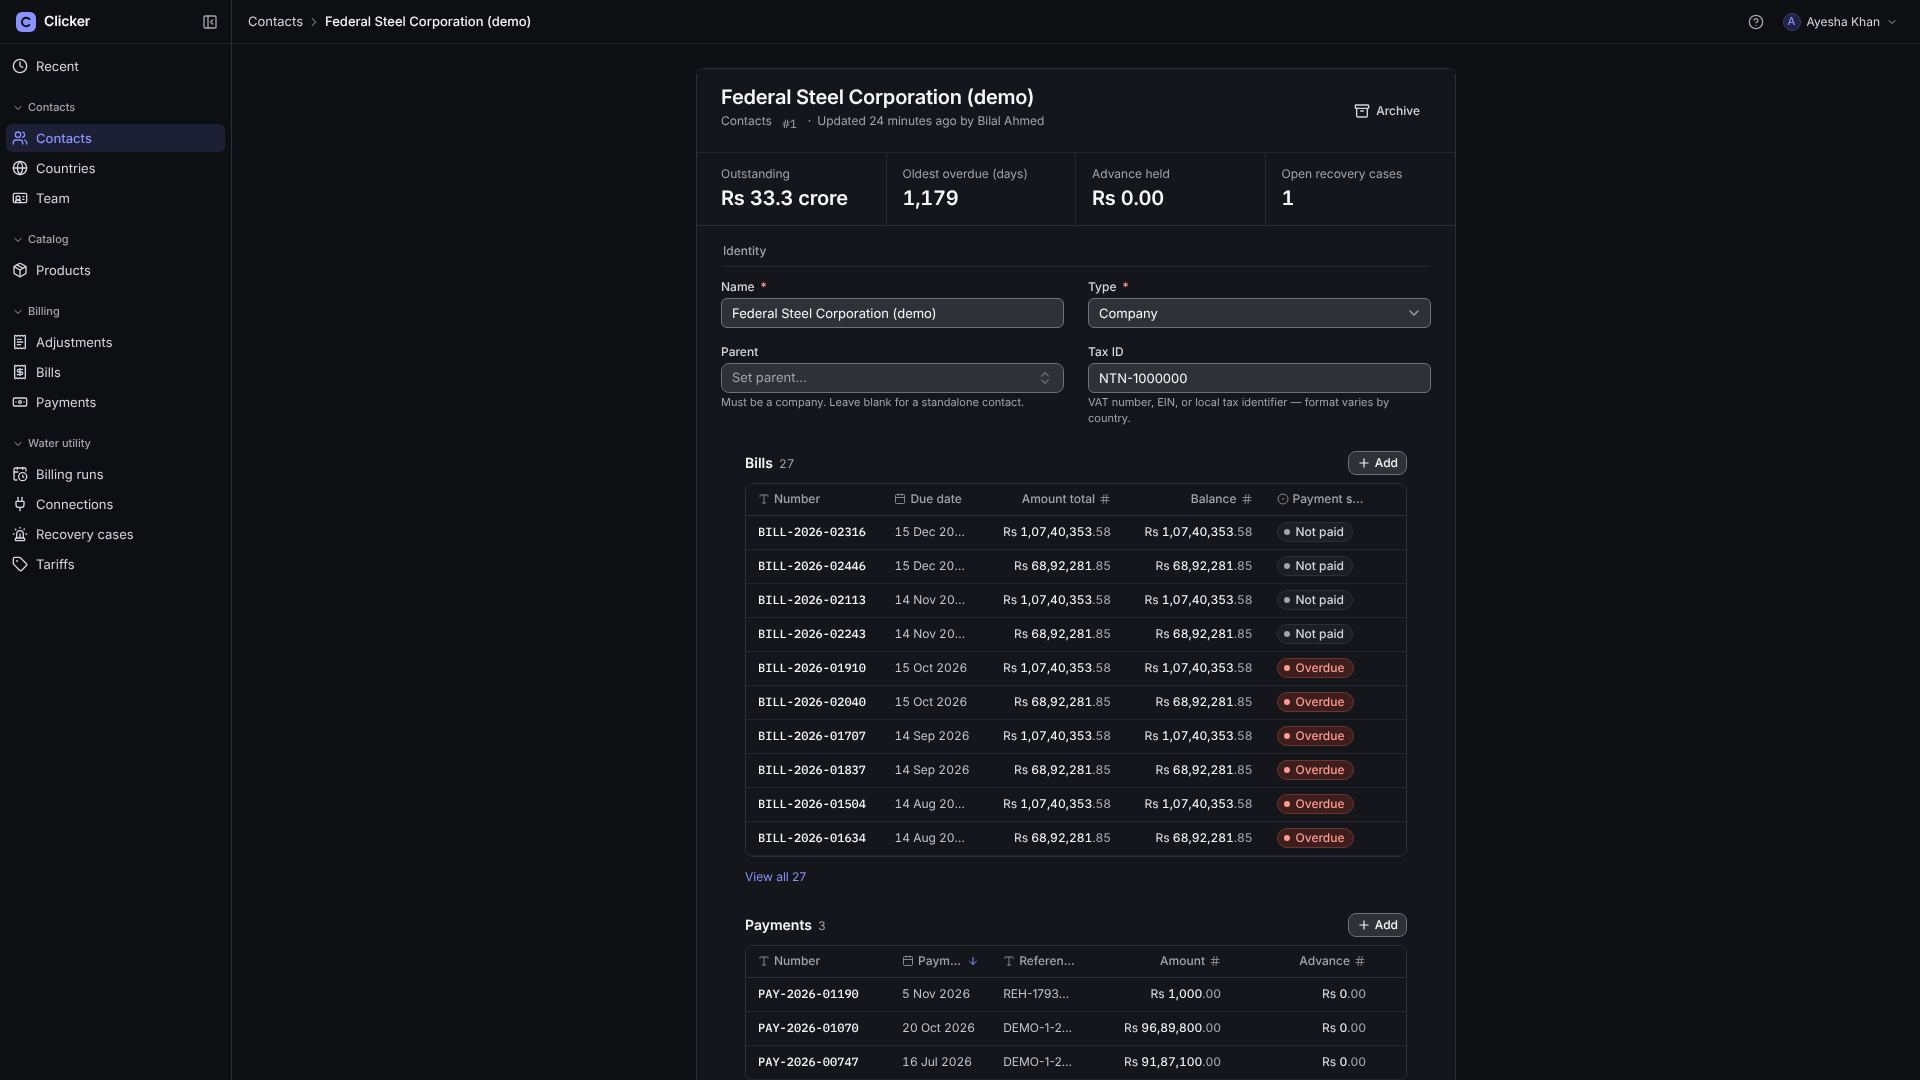
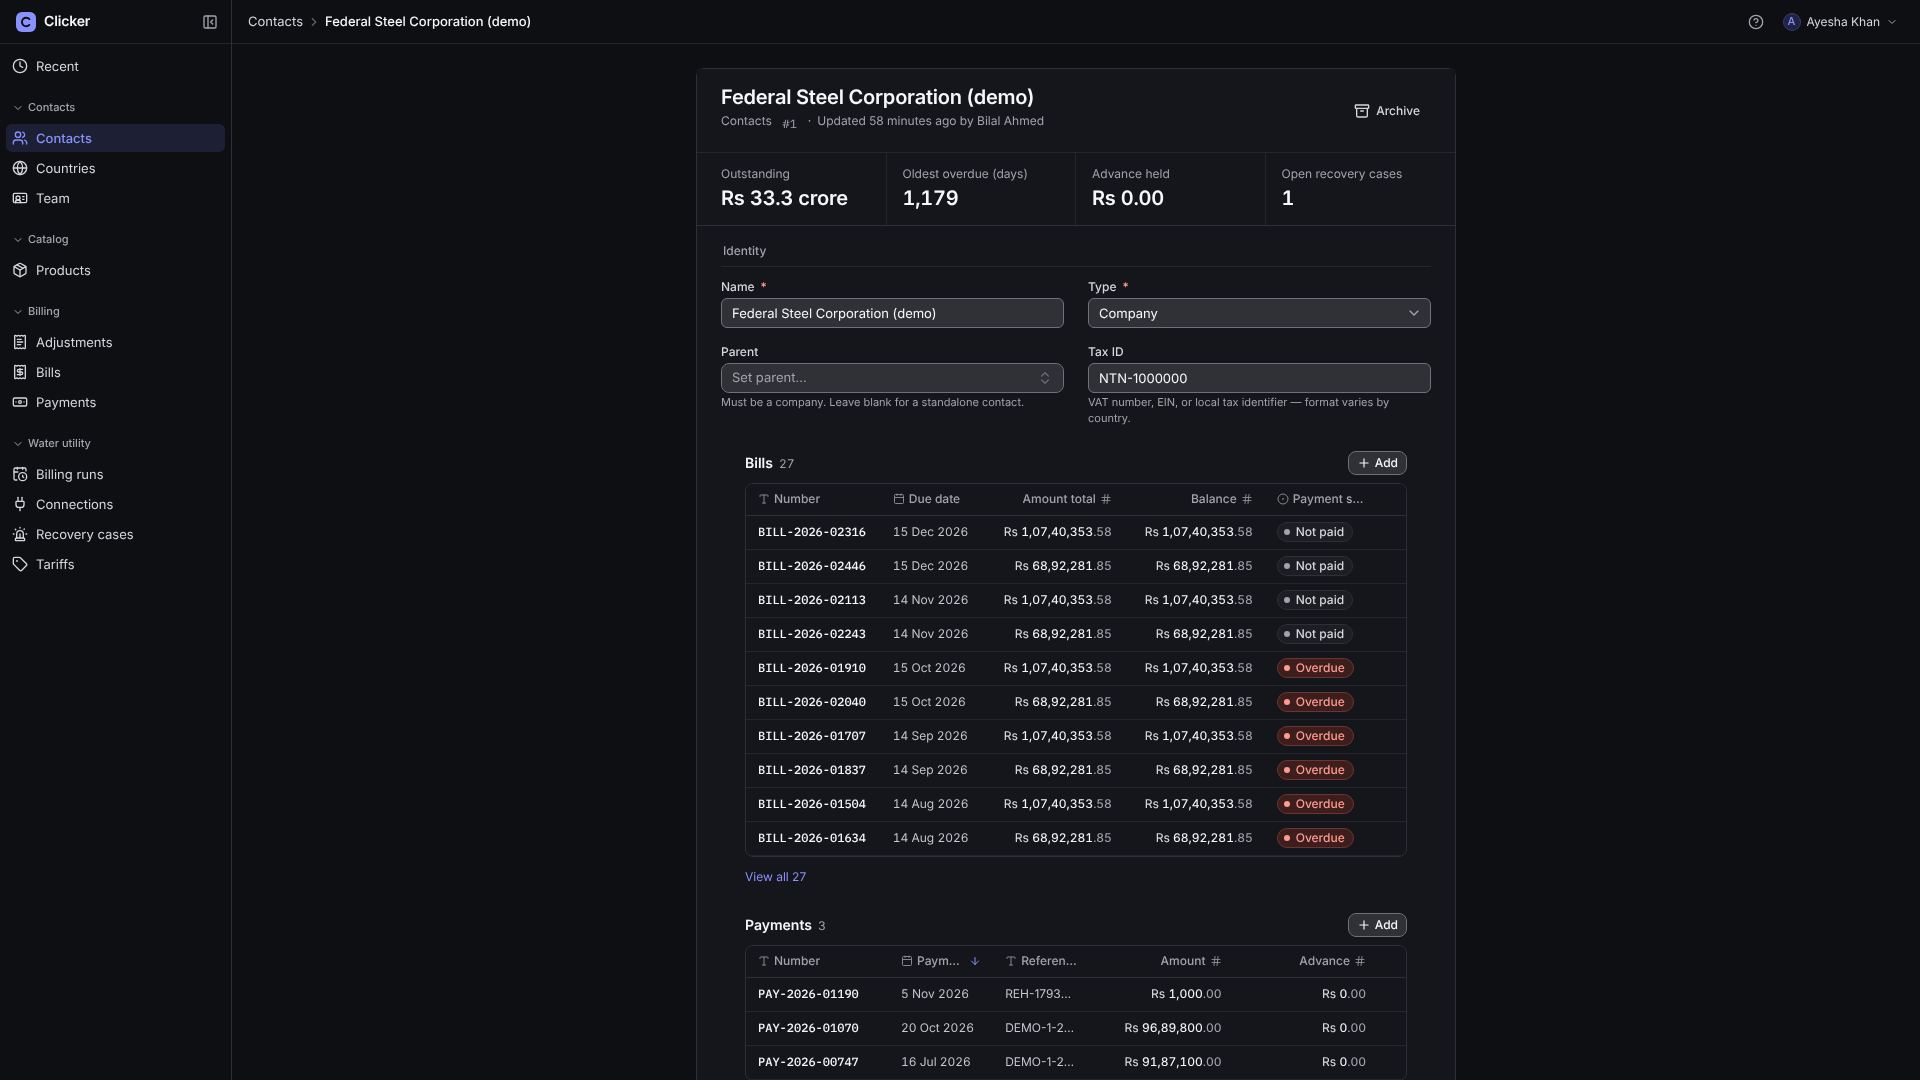
S-8b: date and linked-name columns that fit, comma-joined actions, second human pass, docs
Claude-Session: https://claude.ai/code/session_01TCoC3A43WDPqifMT38nbkh

diff --git a/frontend/src/features/list-renderer/ListRenderer.tsx b/frontend/src/features/list-renderer/ListRenderer.tsx
@@ -134,6 +134,8 @@ const SEARCH_DEBOUNCE_MS = 250
  * model; the first column (the record's name, by convention) gets extra.
  */
 const TYPE_WIDTH: Record<string, number> = {
+  // A linked record leads with its number (JOB-2026-0007 · Makran…): keep enough of it to tell two apart.
+  many_to_one: 1.9,
   boolean: 0.5,
   selection: 0.7,
   integer: 0.65,
@@ -157,8 +159,8 @@ const IDENTIFIER_MIN = 124
 /** A person's name is read, not skimmed: "Kamran Lashari", not "Kamran L…". */
 const PERSON_MIN = 124
 /** A linked record's name (the customer on a bill) is why the row exists: on a page list it keeps room to be read. */
-const LINK_MIN = 96
-const TYPE_MIN: Record<string, number> = { date: 96, datetime: 148, currency: 136, decimal: 100, integer: 64 }
+const LINK_MIN = 88
+const TYPE_MIN: Record<string, number> = { date: 100, datetime: 148, currency: 136, decimal: 100, integer: 64 }
 
 /**
  * Column widths that use the room they're given. Wider viewport: every column

diff --git a/frontend/src/shell/waitingCards.ts b/frontend/src/shell/waitingCards.ts
@@ -20,7 +20,12 @@ export function cardSentence(card: Pick<WaitingCard, 'count' | 'singular' | 'plu
 
 /** The sentence after the number ("disbursements to approve"), for a card that sets the number big. */
 export function cardRest(card: Pick<WaitingCard, 'count' | 'singular' | 'plural' | 'actions'>): string {
-  return `${card.count === 1 ? card.singular : card.plural} to ${card.actions.join(' or ')}`
+  return `${card.count === 1 ? card.singular : card.plural} to ${joinActions(card.actions)}`
+}
+
+/** "approve", "gate out or close", "send the notice, agree a plan or mark settled": commas, then one "or". */
+function joinActions(actions: string[]): string {
+  return actions.length < 3 ? actions.join(' or ') : `${actions.slice(0, -1).join(', ')} or ${actions[actions.length - 1]}`
 }
 
 export const SHOWN = 4

diff --git a/frontend/src/shell/waitingCards.test.ts b/frontend/src/shell/waitingCards.test.ts
@@ -24,6 +24,12 @@ describe('how many cards show', () => {
   it('shows four and says how many more', () => {
     expect(capCards(cards)).toEqual({ shown: [0, 1, 2, 3], more: 3 })
   })
+  it('lists three actions with commas and one "or"', () => {
+    expect(cardSentence({ count: 23, singular: 'recovery case', plural: 'recovery cases', actions: ['send the second notice', 'agree an instalment plan', 'mark settled'] })).toBe(
+      '23 recovery cases to send the second notice, agree an instalment plan or mark settled',
+    )
+  })
+
   it('shows all when there are four or fewer, and says nothing more', () => {
     expect(capCards([1, 2, 3, 4])).toEqual({ shown: [1, 2, 3, 4], more: 0 })
     expect(capCards([])).toEqual({ shown: [], more: 0 })

diff --git a/docs/audit/S8-ui-audit.md b/docs/audit/S8-ui-audit.md
@@ -68,3 +68,25 @@ In S-8 the eyes-on pass was done on the screens the fixes touched. In S-8b it wa
 Counts from this pass: found P0 0, P1 7, P2 5; fixed P0 0, P1 7, P2 1; deferred 4 (all P2), plus the three spacing P2s from S-8.
 
 The other new work in S-8b is covered above this heading in the S-8 table: the cards' words (a test for singular and plural, a test for the cap), the tour card's placement (a check at every one of the 17 steps at four viewports in both themes, in `audit.mjs`), and the form gap (a check in `audit.mjs`).
+
+# S-8b, second human pass (after the sign-in redesign)
+
+The first S-8b pass (above) opened 21 of 116 images. This pass went on from regenerated screenshots, 29 screens (the audit's own list; the file `recent-home` was a stale leftover from an older screen name and was deleted):
+
+- **1440, light and dark:** 26 of the 29 screens opened side by side (light | dark), plus the two Owner/Manager homes full size, one at a time. Not opened at 1440: Bills (all, Manager), Jobs (all, Owner) and Payments (Manager): the same renderer as the pages next to them, covered by the scripts only.
+- **1280:** the four densest screens in both themes (Jobs by stage, Aging, both homes), and the other 26 in **light only**, four to a sheet at about 60% scale. Dark at 1280 for those 26 was **not** looked at (the scripts check it); colour is the only difference between the themes, the layout is the same.
+- Every image was looked at for clipped values, overlaps, misalignment and states drawn wrongly. A sheet at 60% is not the same as full size: a one-pixel misalignment would not show. Nobody should read "viewed" as "certified pixel by pixel".
+
+| id | sev | where | what the eye found | fix | status |
+| --- | --- | --- | --- | --- | --- |
+| S8c-01 | P0 | Jobs (all), 1280; Aging, 1280; every related list with a date (Statement bills, Job containers) | Dates cut: "14 Aug 20…", "15 Dec 20…", "12 Nov 20…". The script had reported one finding, ×32 across screens; the date column's floor (96px) was 4px short of "16 Nov 2026" plus the cell's padding | date floor 100px; a linked name's floor 88px so the tables still fit at 1280 without scrolling sideways | fixed, rechecked at 1280 and 1440 |
+| S8c-02 | P1 | Containers, 1280 | The linked Job read "JOB-2026-00…": the digits that tell one job from the next were the part cut | a linked record's column takes a larger share of the room when there is room (the floor in a tight table is unchanged); now "JOB-2026-0032 · …" | fixed |
+| S8c-03 | P2 | Owner home (Manager home, water) | "to send the second notice or agree an instalment plan or mark settled": three actions joined with "or" twice | commas, then one "or" (test added) | fixed |
+| S8c-04 | P2 | Lists | Column headers cut with an ellipsis when the column is narrow: "Issue d…", "Payme…", "Days…", "Oldest o…", "Next acti…", "Assessed monthl…" | not fixed (the full label is in the header's title and sorts the same) | deferred |
+| S8c-05 | P2 | Job record | The embedded Containers list cuts the container number ("TGHU7002…") in the 660px related list | not fixed | deferred |
+| S8c-06 | P2 | Contacts, "Owing money" | The summary "Credit extended Rs 0" sits beside 147 customers who owe money; the label is about credit limits, not debt | not fixed | deferred |
+| S8c-07 | P2 | Owner home, empty | The empty state offers "Browse contacts" in a clearing agency, whose work is Jobs | not fixed | deferred |
+| S8c-08 | P2 | Search box, amount input | Padding 34px and 36.6px are off the spacing scale (the icon and the currency symbol) | same as S8-18, S8-19 | deferred |
+
+**Counts of this pass:** found P0 1 (32 instances), P1 1, P2 6; fixed P0 1, P1 1, P2 1; deferred 5 (all P2).
+**Counts of S-8b in all (both passes):** found P0 1, P1 8, P2 11; fixed P0 1, P1 8, P2 2; deferred all the rest (P2).

diff --git a/docs/BUILD_LOG.md b/docs/BUILD_LOG.md
@@ -2077,3 +2077,17 @@ Cloud session (local Postgres on 5433, generated `.env`, no Neon). **Not merged.
 - Missing: the human-style audit pass over all 28 screens; long-content records; Urdu expansion; the Windows PowerShell reset steps of S-7 are still untested on Windows.
 - Half-finished: nothing.
 - **Next single action:** Hassan, before deciding to merge `s8-polish`: sign in on the demo laptop as `hamza.farooqui`, press Help > Take the tour on the clearing agency, and read every card aloud. If any sentence is wrong for what you say on stage, say which; if the tour or the home page feels like too much, present from `demo-safe`.
+
+## 2026-11-05 | cloud container | S-8b: sign-in redesign, the fixes, a second human pass, re-rehearsal (branch `s8-polish`)
+
+**Not merged.** `demo-safe` untouched.
+
+**Sign-in (Part 1).** Two columns from 1024px: the form column (480px, on the page surface; wordmark top-left, form centred, "Need help signing in?" at the bottom as a native `<details>`) and a calm panel in `--accent-subtle` (violet in light, deep indigo in dark, no new colour) with the headline in Instrument Serif and a proof strip. The headline is the organisation's promise line; the proof strip is `login_proof` in the organisation setting (`CLICKER_LOGIN_PROOF`, up to three `{tone, chip, text, figure}` cards per journey, sent by the public providers endpoint). Under 1024px the panel goes and the headline sits above the form. The `h1` is the headline, the form's title is an `h2`; the strip is `aria-hidden`, with nothing to focus. The button keeps its width, says "Signing in…", then shows a check for `--duration-slow` and the page loads (under reduced motion: no check, straight on). To let the check show, `AuthProvider` gained `authenticate` (starts the session and says where to go, without changing what is on screen); the screen then loads the destination afresh. A new token `--text-display` (the headline's size). Mobbin: Mercury, Linear, Attio, Stripe returned screens; Cofounder and Ramp returned nothing (said in `docs/design/s8/references.md`). Screenshots: `docs/design/s8/signin-v2-*` from `scripts/shots-signin.mjs`, which also checks 390, 1280, 1366, 1440 and 1920 wide, both themes, for sideways scroll and clipped text.
+
+**Fixes (Part 2).** Waiting cards ("8 jobs to record duty paid", singular and plural from the schema, at most four and "+N more", three actions joined with commas); the tour card's placement (an `audit.mjs` check at every step, four viewports, both themes); one gap token between groups and related lists; the second human pass of the screens (`docs/audit/S8-ui-audit.md`, honest scope there): one P0 (dates cut in narrow date columns, ×32) and one P1 (a linked job's number cut) fixed.
+
+**Departures from the brief:** the "Demurrage · 2 days" card carries a line of text beside the chip, because a chip alone is not a card; the second card is offset 32px to the right (a calm stagger), not aligned; the form column is vertically centred, so it moves up a little when an error line appears; the success check keeps the button's colour (a green button was tried and lost to the button's own disabled styling, and was removed rather than forced).
+
+- Missing: the human pass did not open every image at full size (the audit doc says which); the Windows steps are still untested on Windows.
+- Half-finished: nothing.
+- **Next single action:** Hassan: open `http://localhost:5274/login` (and `5273`) on the laptop in light and dark, read the headline and the three cards aloud, then sign in as `hamza.farooqui` and watch the button.

diff --git a/docs/DEMO_SPRINT.md b/docs/DEMO_SPRINT.md
@@ -26,6 +26,7 @@ Clicker is an Odoo **replacement**, never a "replica". Clean-room: Odoo's docs a
 | S-4 | Passed (3 Nov): filters on readable fields only, group sums equal a database aggregate (tests), a saved view survives reload (browser) and lives in the shared database, so it follows to the other machine. **Board view cut** (to the Parking Lot). |
 | S-5 | Passed (4 Nov): oldest-first allocation, locked posted bills, one bill per connection (tests); Journey A walked through as Manager, Billing officer, Cashier and Recovery officer on the local database; slowest screen 122 ms. **Neon not seeded**: the demo runs on local Postgres (see Demo machine). |
 | S-6 | Passed (4 Nov), nothing cut: Journey B on its own database (`clicker_port`), the invoice drafts itself at gate-out (one bill, also under a race), team page and View as role (equality test over every role and model), lakh grouping, statement header, second approver above Rs 1 crore, bulk Assign owner. |
+| S-8b | **Branch `s8-polish`, not merged** (5 Nov): the sign-in is two columns with the organisation's headline and a proof strip (`login_proof`), the Waiting cards read "<count> <noun> to <action>", dates and linked numbers no longer cut at 1280, a second human pass over the screens (`docs/audit/S8-ui-audit.md`). |
 | S-8 | **Branch `s8-polish`, not merged** (5 Nov): UI audit with fixes, sign-in and welcome, guided tours, Help menu, theme choice, copy-an-identifier; both journeys rehearsed twice on one commit, 37/37 each. Fallback for Saturday: the branch `demo-safe` (= `main`). Merge is Hassan's decision after his own run-through on the laptop. |
 | S-7 | Passed in the cloud (4 Nov): both journeys rehearsed twice from a fresh seed through the browser with no code change between (`scripts/rehearse.sh`, 27/27 steps each), 95 fail-safe checks (no external host, offline, four viewports, zero console errors), `check --deploy`, `pip-audit` and `npm audit` clean. **Still to do: Hassan's rehearsal on the demo laptop**, and re-measuring the timings there (those below were taken in the cloud container). Code is frozen: only fixes to a failure found in rehearsal merge. |
 

diff --git a/docs/DEMO_RESET.md b/docs/DEMO_RESET.md
@@ -114,6 +114,7 @@ The password for each is `DEMO_PASSWORD_<NAME>` in `.env` (for example `DEMO_PAS
 - **Help (the ? in the top bar) > Take the tour** runs a 8 to 9 step tour of the journey you are in, as the role you are signed in as (a role sees only the steps about what it may see). Next, Back, Skip tour, Esc, and the arrow keys work; Esc puts it down and Help then says "Pick up the tour". Nothing starts by itself.
 - The tour and the welcome are remembered **per person on the server**. A fresh seed (`demo_setup.sh --fresh`) forgets them, so after a reset everyone is new again: the welcome note shows once more, and the tour starts from step 1.
 - Step 6 of the clearing agency tour waits for the gate-out: press **Gate out** on the highlighted job, confirm, and the tour moves on to the invoice that drafted itself. If you press Next instead, that step is skipped and the tour carries on.
+- **The sign-in screen** is two columns from 1024px wide: the form on the left, the organisation's headline and three example cards on the right (from the organisation setting; the cards are decorative). Narrower than that, only the headline shows, above the form. After a right password the button shows a check for a moment, then the app loads.
 - **Signed out on purpose?** The sign-in screen says "You've been signed out." once. Five wrong passwords for one name lock that name for 15 minutes ("Too many attempts. Try again in N minutes."); a fresh seed clears the lock.
 - **Light, dark or the system's:** the user menu (your name, top right) has a Theme choice. It is per browser, so check it on the laptop you present from.
 
